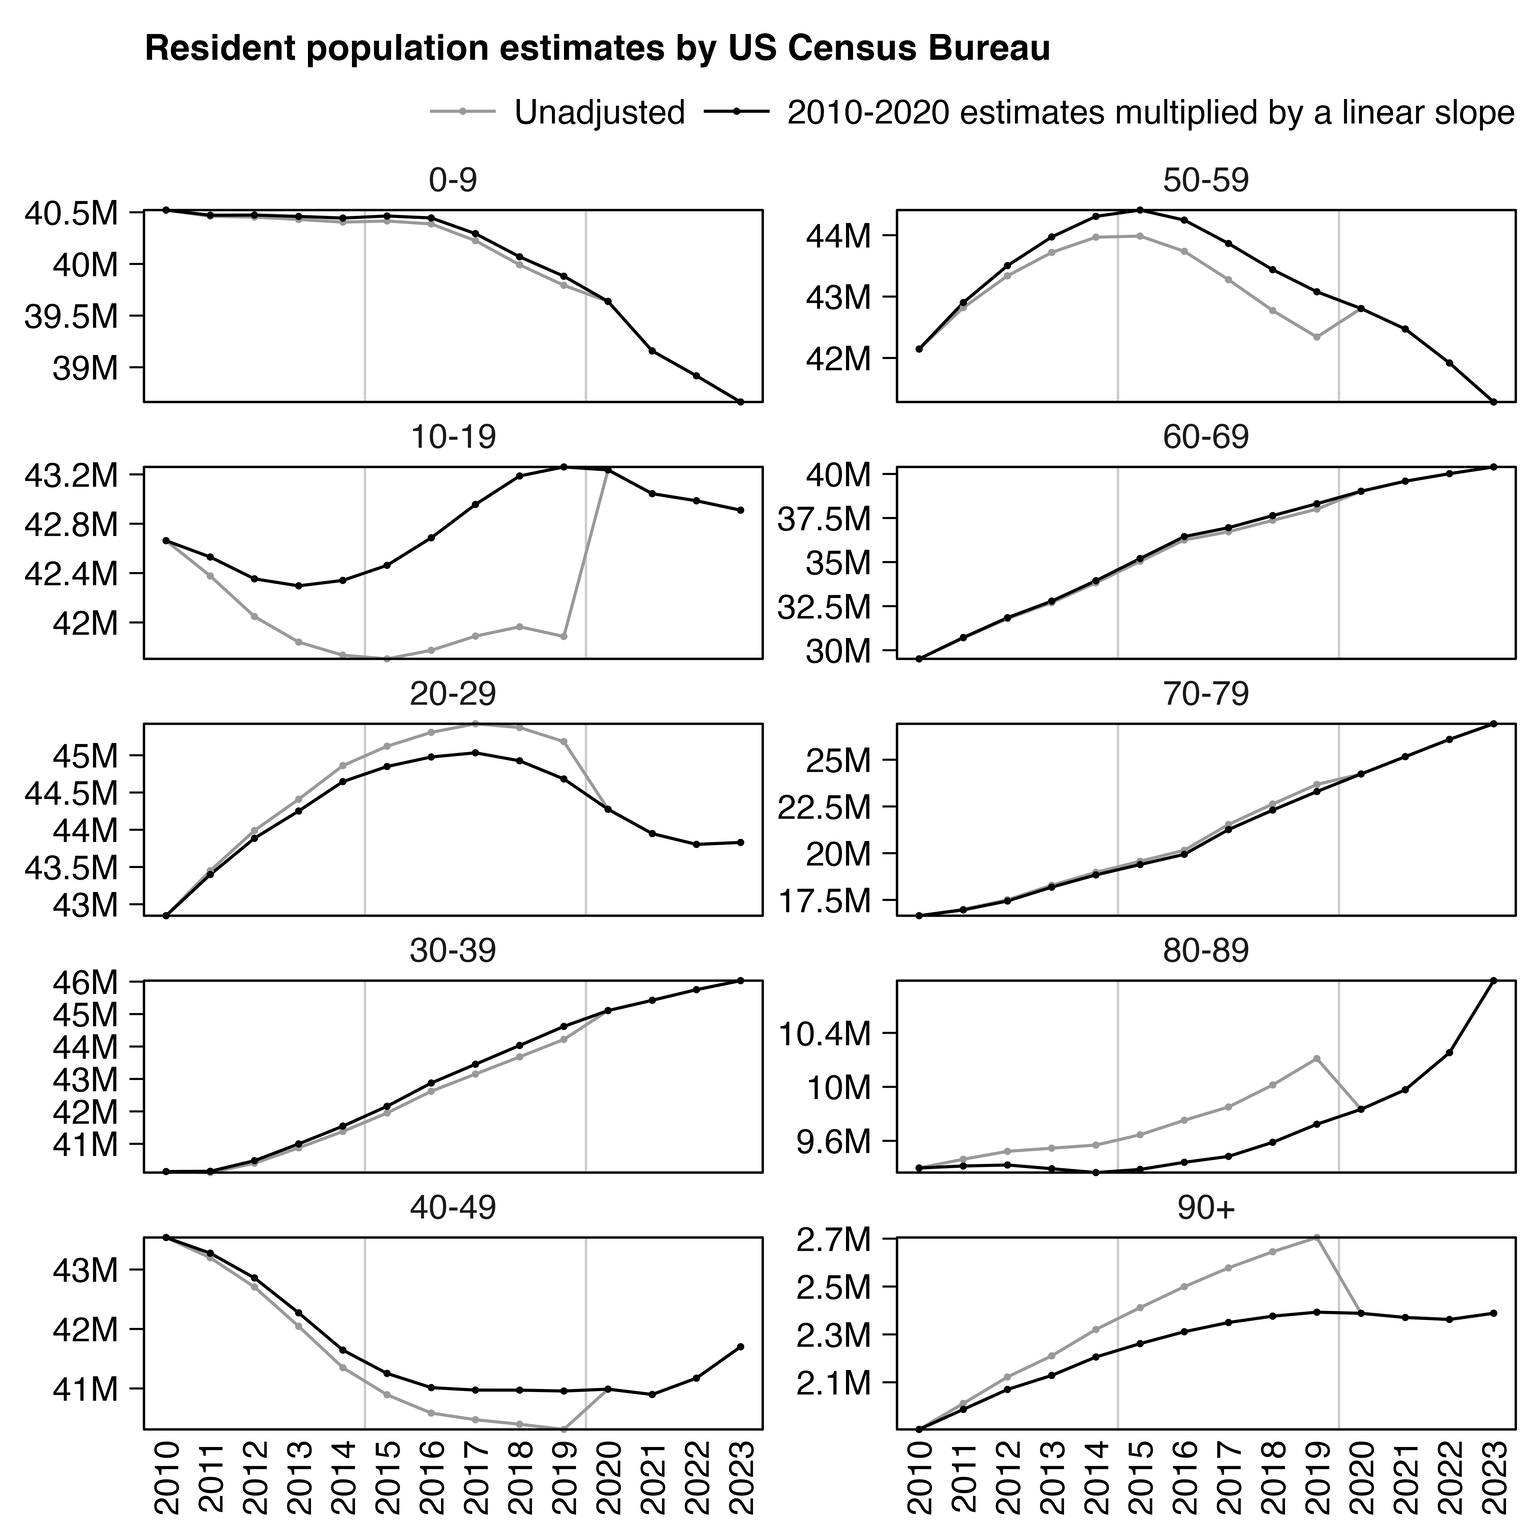
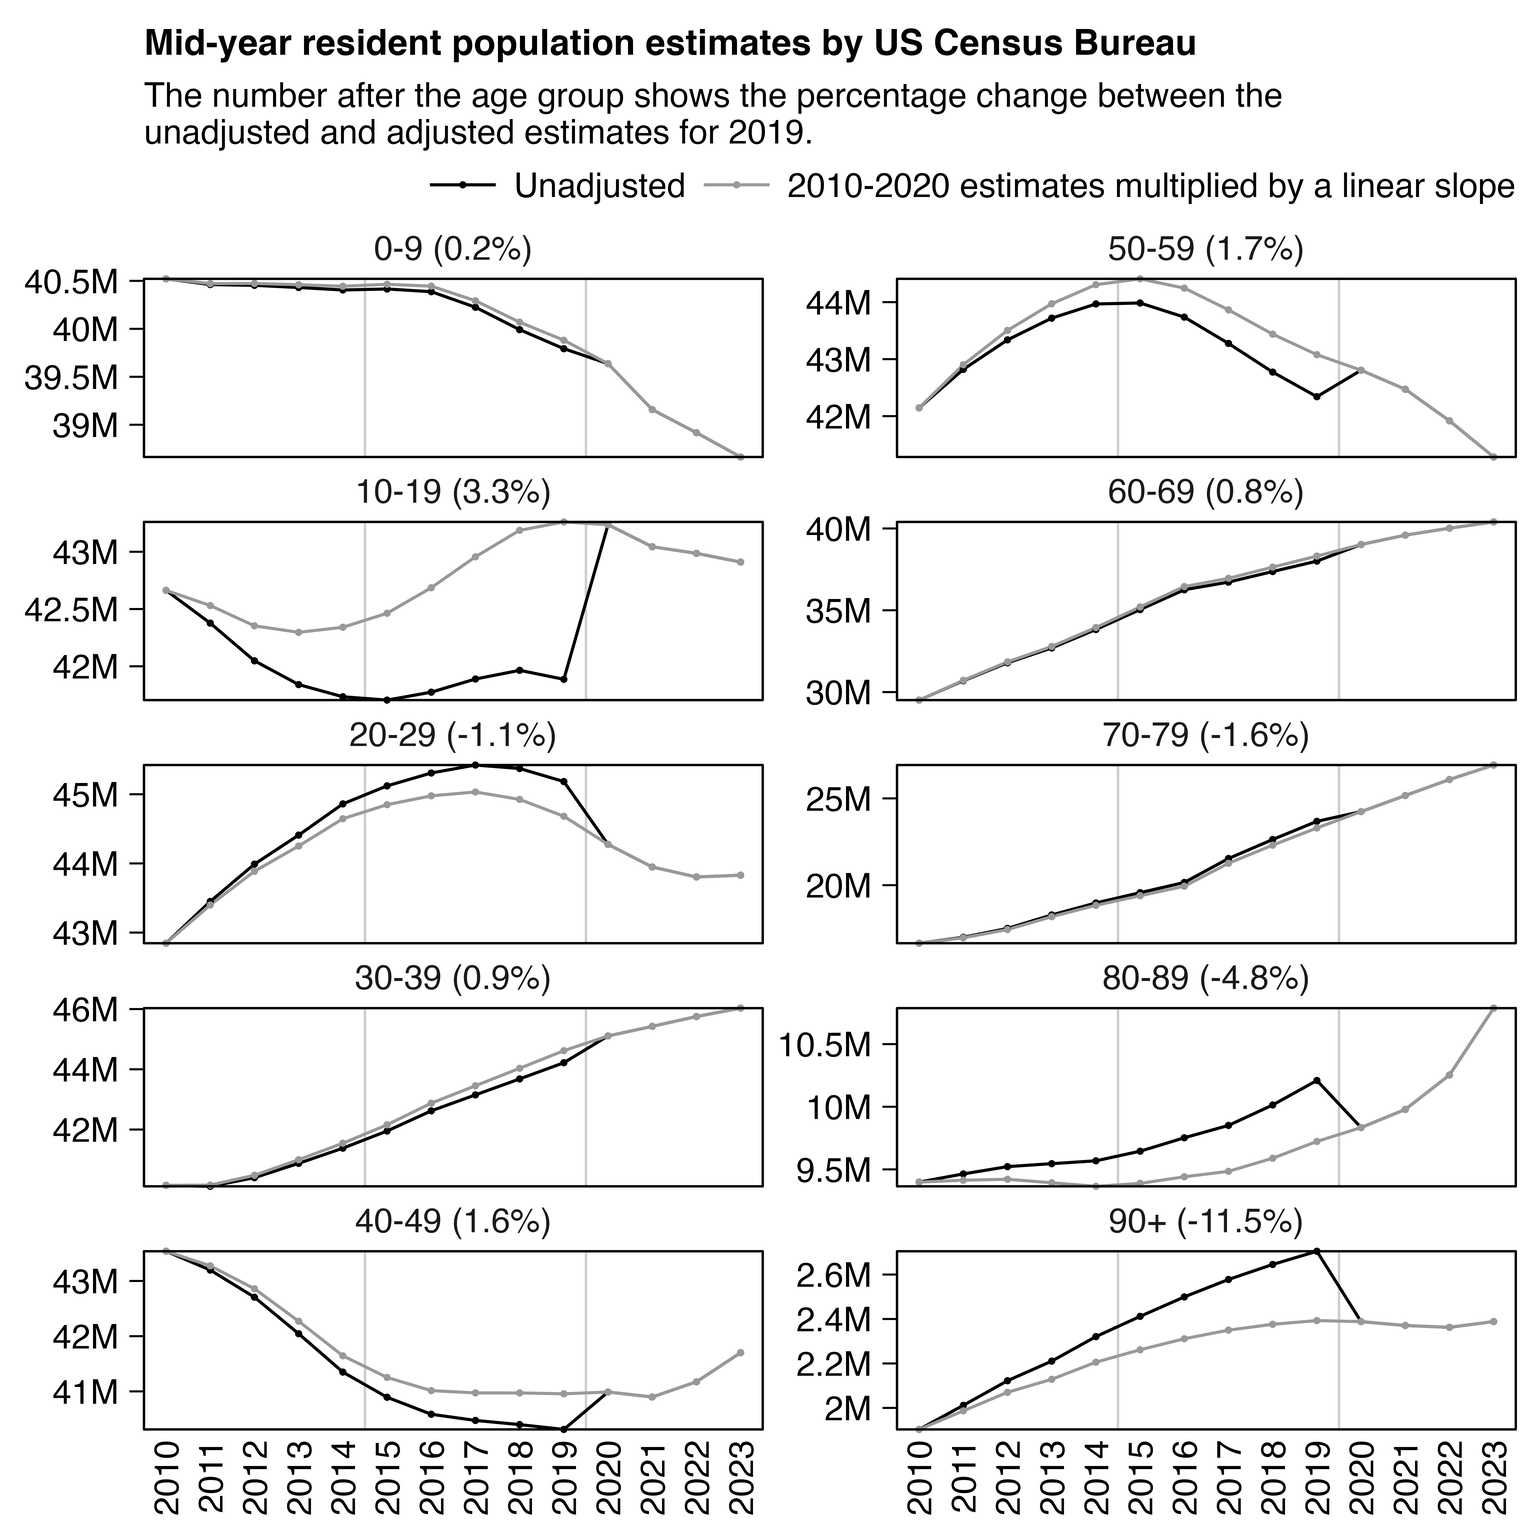
a

Changed region(s): [[0.0, 0.0, 0.9974, 0.9351], [0.5922, 0.9039, 0.6545, 0.9351], [0.9039, 0.6857, 0.9351, 0.7169]]

diff --git a/ethical.html b/ethical.html
@@ -1531,7 +1531,7 @@ dead=fread(&quot;usyearlydead.csv&quot;) # from CDC WONDER
 o=merge(pop,dead,all=T)
 fwrite(o[order(year,age)],&quot;uspopdead.csv&quot;,na=&quot;&quot;)</pre>
 <p>I uploaded the output here: <a href=f/uspopdead.csv>f/uspopdead.csv</a>. This is a similar file for monthly data: <a href=f/uspopdeadmonthly.csv>f/uspopdeadmonthly.csv</a>. Both files are used in some of my scripts on this page.</p>
-<p>This shows how the population estimates of some age groups have a big jump between the switch from the estimates based on the 2010 census to the estimates based on the 2020 census:</p>
+<p>This shows that particularly ages 90+ have a huge jump between the switch from the estimates based on the 2010 census to the estimates based on the 2020 census (even though it might partially be due to COVID deaths in case COVID deaths are accounted for in the mid-year population estimates for 2020):</p>
 <div class="width7">
 <img src="i/ethical-popmerge.png">
 </div>
@@ -1562,32 +1562,32 @@ p=p[,.(pop=sum(pop)),.(group,year,age=agecut(age,0:9*10))]
 xstart=2010;xend=2023
 p=p[year%in%xstart:xend]
 
+levels(p$age)=p[year==2019,sprintf(&quot;%s (%.1f%%)&quot;,age,(pop[group!=&quot;Unadjusted&quot;]/pop[group==&quot;Unadjusted&quot;]-1)*100)]
+
 ggplot(p,aes(x=year,y=pop,color=group))+
+coord_cartesian(clip=&quot;off&quot;,expand=F)+
 facet_wrap(~age,ncol=2,dir=&quot;v&quot;,scales=&quot;free_y&quot;)+
 geom_vline(xintercept=c(2014.5,2019.5),color=&quot;gray80&quot;,linewidth=.23)+
 geom_line(linewidth=.3)+
 geom_point(stroke=0,size=.7)+
-labs(title=&quot;Resident population estimates by US Census Bureau&quot;,x=NULL,y=NULL)+
+labs(title=&quot;Mid-year resident population estimates by US Census Bureau&quot;,subtitle=&quot;The number after the age group shows the percentage change between the unadjusted and adjusted estimates for 2019.&quot;|&gt;stringr::str_wrap(78),x=NULL,y=NULL)+
 scale_x_continuous(limits=c(xstart-.5,xend+.5),breaks=seq(xstart-.5,xend+.5,.5),labels=c(rbind(&quot;&quot;,xstart:xend),&quot;&quot;))+
-scale_y_continuous(labels=kim)+
-coord_cartesian(clip=&quot;off&quot;,expand=F)+
-scale_color_manual(values=c(&quot;gray60&quot;,&quot;black&quot;))+
+scale_y_continuous(labels=kim,breaks=\(x)pretty(x,3))+
+scale_color_manual(values=c(&quot;black&quot;,&quot;gray60&quot;))+
 theme(axis.text=element_text(size=7,color=&quot;black&quot;),
   axis.text.x=element_text(angle=90,vjust=.5,hjust=1),
   axis.ticks=element_line(linewidth=.2,color=&quot;black&quot;),
-  axis.ticks.x=element_line(color=alpha(&quot;black&quot;,c(1,0))),
   axis.ticks.length=unit(3,&quot;pt&quot;),
   axis.ticks.length.x=unit(0,&quot;pt&quot;),
-  axis.title=element_text(size=8),
   legend.background=element_blank(),
   legend.box.spacing=unit(0,&quot;pt&quot;),
+  legend.justification=&quot;right&quot;,
   legend.key=element_blank(),
   legend.key.height=unit(10,&quot;pt&quot;),
   legend.key.width=unit(17,&quot;pt&quot;),
+  legend.margin=margin(,,-1),
   legend.position=&quot;top&quot;,
-  legend.justification=&quot;right&quot;,
   legend.spacing.x=unit(2,&quot;pt&quot;),
-  legend.margin=margin(),
   legend.text=element_text(size=7,vjust=.5),
   legend.title=element_blank(),
   panel.background=element_blank(),
@@ -1595,7 +1595,8 @@ theme(axis.text=element_text(size=7,color=&quot;black&quot;),
   panel.spacing=unit(-2,&quot;pt&quot;),
   panel.spacing.x=unit(3,&quot;pt&quot;),
   plot.margin=margin(5,5,5,5),
-  plot.title=element_text(size=7.4,face=2,margin=margin(2,,4)),
+  plot.subtitle=element_text(size=7,margin=margin(,,2)),
+  plot.title=element_text(size=7.4,face=2,margin=margin(1,,4)),
   strip.background=element_blank(),
   strip.text=element_text(size=7,vjust=-.3))
 ggsave(&quot;1.png&quot;,width=4.4,height=4.4,dpi=350*4)
